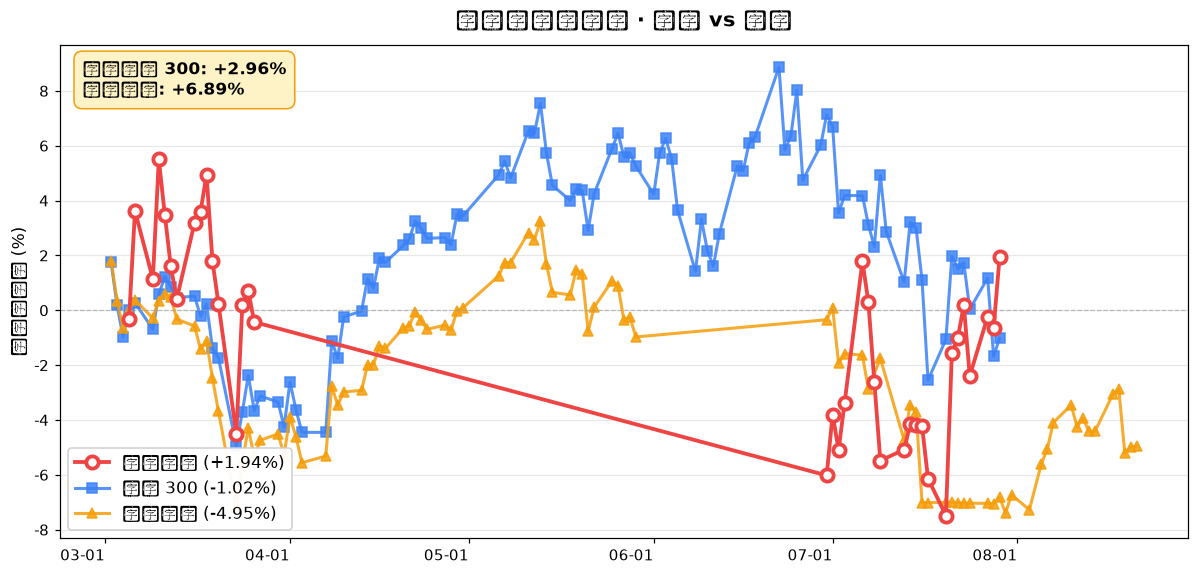
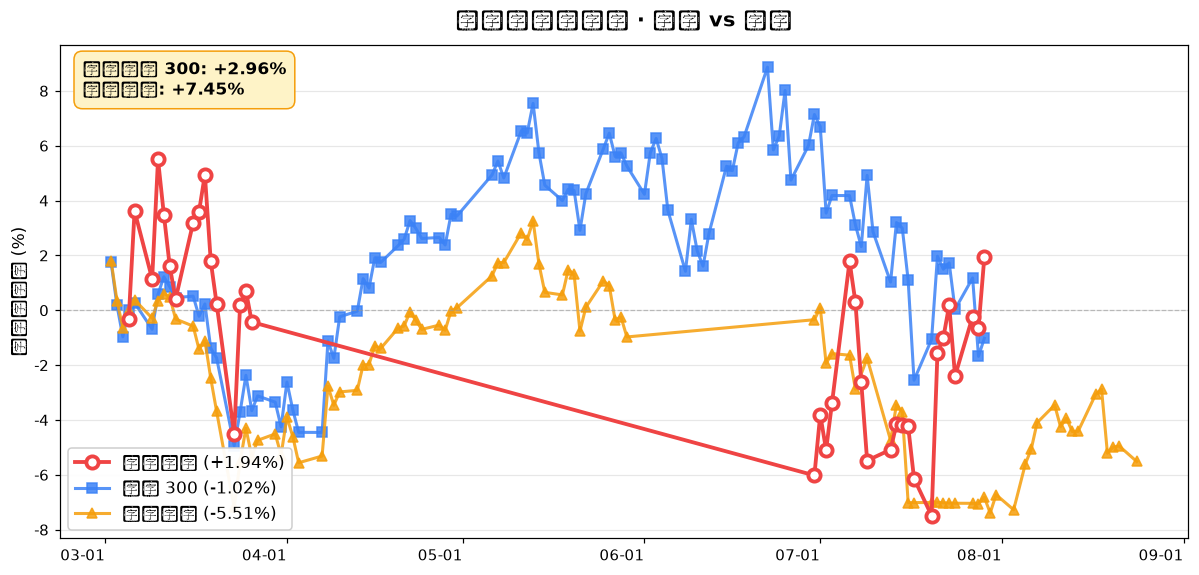
deploy dashboard 2026-08-24

diff --git a/dashboard/index.html b/dashboard/index.html
@@ -3,7 +3,7 @@
 <head>
 <meta charset="UTF-8">
 <meta name="viewport" content="width=device-width, initial-scale=1.0, user-scalable=no">
-<title>持仓 Dashboard · 2026-08-21</title>
+<title>持仓 Dashboard · 2026-08-24</title>
 <meta http-equiv="Cache-Control" content="no-cache">
 <style>
   * { margin: 0; padding: 0; box-sizing: border-box; }
@@ -111,7 +111,7 @@
 
 <div class="header">
   <h1 data-i18n="title">📊 持仓 Dashboard</h1>
-  <div class="date">2026-08-21 · 更新于 08:20</div>
+  <div class="date">2026-08-24 · 更新于 08:38</div>
 </div>
 
 <div class="hero-pnl" style="padding:16px">
@@ -123,8 +123,8 @@
       <div style="font-size:11px;color:#9ca3af"><span data-i18n="sublabel1">(持仓浮盈/亏)</span></div>
     </div>
     <div style="text-align:right">
-      <div style="font-size:18px;font-weight:700;color:#fff">-1612.75 元</div>
-      <div style="font-size:12px;color:#ffffffee">-7.07%</div>
+      <div style="font-size:18px;font-weight:700;color:#fff">-1421.75 元</div>
+      <div style="font-size:12px;color:#ffffffee">-6.23%</div>
     </div>
   </div>
 
@@ -145,8 +145,8 @@
       <div style="font-size:11px;color:#9ca3af">总% vs 初始总投入</div>
     </div>
     <div style="text-align:right">
-      <div style="font-size:22px;font-weight:800;color:#fff">-1104.15 元</div>
-      <div style="font-size:13px;color:#ffffffee">-2.76%</div>
+      <div style="font-size:22px;font-weight:800;color:#fff">-913.15 元</div>
+      <div style="font-size:13px;color:#ffffffee">-2.29%</div>
     </div>
   </div>
 </div>
@@ -157,31 +157,31 @@
 
 <div class="excess">
         <b>🔴 跑赢 沪深 300</b>: +2.96%<br>
-        <b>🔴 跑赢 上证指数</b>: +6.89%
+        <b>🔴 跑赢 上证指数</b>: +7.45%
     </div>
 
 <div class="section">
   <h2 data-i18n="section2">💼 当前持仓 (3 只)</h2>
-  <div class="holding-card ">
+  <div class="holding-card loss">
           <div class="name">金地集团 <span style="color:#9ca3af;font-weight:normal">(600383)</span></div>
           <div class="row"><span class="k">持仓</span><span>600 股</span></div>
           <div class="row"><span class="k">成本</span><span>2.199</span></div>
-          <div class="row"><span class="k">现价</span><span>2.210</span></div>
-          <div class="row"><span class="k">盈亏</span><span class="red">+6.60 (+0.50%)</span></div>
+          <div class="row"><span class="k">现价</span><span>2.180</span></div>
+          <div class="row"><span class="k">盈亏</span><span class="green">-11.40 (-0.86%)</span></div>
         </div>
 <div class="holding-card loss">
           <div class="name">杉杉股份 <span style="color:#9ca3af;font-weight:normal">(600884)</span></div>
           <div class="row"><span class="k">持仓</span><span>1300 股</span></div>
           <div class="row"><span class="k">成本</span><span>13.130</span></div>
-          <div class="row"><span class="k">现价</span><span>11.930</span></div>
-          <div class="row"><span class="k">盈亏</span><span class="green">-1559.35 (-9.14%)</span></div>
+          <div class="row"><span class="k">现价</span><span>12.100</span></div>
+          <div class="row"><span class="k">盈亏</span><span class="green">-1338.35 (-7.84%)</span></div>
         </div>
 <div class="holding-card loss">
           <div class="name">春秋航空 <span style="color:#9ca3af;font-weight:normal">(601021)</span></div>
           <div class="row"><span class="k">持仓</span><span>100 股</span></div>
           <div class="row"><span class="k">成本</span><span>44.190</span></div>
-          <div class="row"><span class="k">现价</span><span>43.590</span></div>
-          <div class="row"><span class="k">盈亏</span><span class="green">-60.00 (-1.36%)</span></div>
+          <div class="row"><span class="k">现价</span><span>43.470</span></div>
+          <div class="row"><span class="k">盈亏</span><span class="green">-72.00 (-1.63%)</span></div>
         </div>
 </div>
 
@@ -210,26 +210,26 @@
           <td>金地集团</td>
           <td class="num">600</td>
           <td class="num">2.199</td>
-          <td class="num">2.210</td>
-          <td class="num red">+6.60</td>
-          <td class="num red">+0.50%</td>
-          <td class="num red">-0.4%</td>
+          <td class="num">2.180</td>
+          <td class="num green">-11.40</td>
+          <td class="num green">-0.86%</td>
+          <td class="num green">+0.8%</td>
         </tr><tr>
           <td>春秋航空</td>
           <td class="num">100</td>
           <td class="num">44.190</td>
-          <td class="num">43.590</td>
-          <td class="num green">-60.00</td>
-          <td class="num green">-1.36%</td>
-          <td class="num green">+3.7%</td>
+          <td class="num">43.470</td>
+          <td class="num green">-72.00</td>
+          <td class="num green">-1.63%</td>
+          <td class="num green">+5.1%</td>
         </tr><tr>
           <td>杉杉股份</td>
           <td class="num">1300</td>
           <td class="num">13.130</td>
-          <td class="num">11.930</td>
-          <td class="num green">-1559.35</td>
-          <td class="num green">-9.14%</td>
-          <td class="num green">+96.7%</td>
+          <td class="num">12.100</td>
+          <td class="num green">-1338.35</td>
+          <td class="num green">-7.84%</td>
+          <td class="num green">+94.1%</td>
         </tr>
     </table>
 </div>
